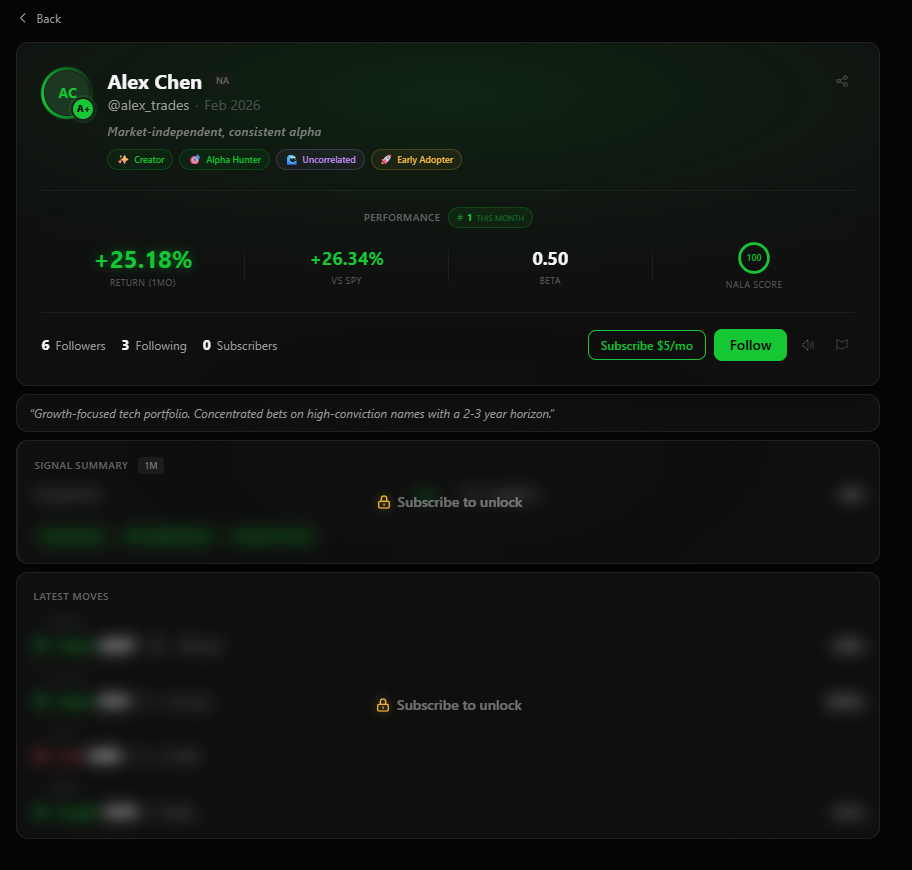
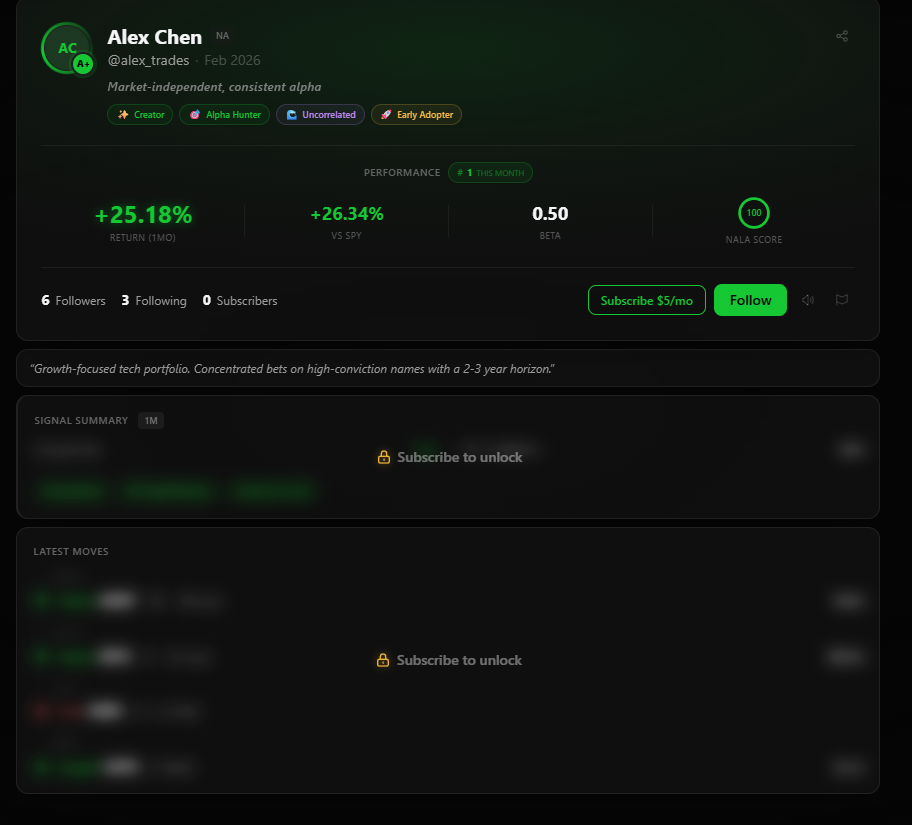
Crop screenshot headers + simplify lightbox rendering
- creator-profile.png: remove "Back" button, start at profile card
- creators-marketplace.png: remove Discover nav tabs, start at Sort bar
- Lightbox: use object-contain for clean full-image display

diff --git a/src/components/LandingPage.tsx b/src/components/LandingPage.tsx
@@ -465,9 +465,9 @@ export function LandingPage() {
             <button onClick={() => setLightbox((lightbox + 1) % ALL_FEATURES.length)} className="absolute right-[-3rem] top-1/2 -translate-y-1/2 text-white/30 hover:text-white transition-colors hidden sm:block">
               <svg className="w-8 h-8" fill="none" stroke="currentColor" viewBox="0 0 24 24"><path strokeLinecap="round" strokeLinejoin="round" strokeWidth={2} d="M9 5l7 7-7 7" /></svg>
             </button>
-            {/* Image — shift past nav header */}
+            {/* Image */}
             <div className="rounded-2xl border border-white/[0.12] bg-[#0a0a0a] overflow-hidden shadow-2xl shadow-black/60 w-full max-h-[60vh]">
-              <img src={ALL_FEATURES[lightbox].src} alt={ALL_FEATURES[lightbox].title} className="w-full block max-h-[60vh] object-cover" style={{ objectPosition: 'center 15%' }} draggable={false} />
+              <img src={ALL_FEATURES[lightbox].src} alt={ALL_FEATURES[lightbox].title} className="w-full block max-h-[60vh] object-contain" draggable={false} />
             </div>
             {/* Title + desc */}
             <div className="mt-4 text-center px-4">
